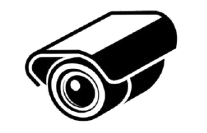
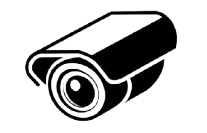
--

diff --git a/lib/screens/home_page.dart b/lib/screens/home_page.dart
@@ -228,6 +228,18 @@ class HomePage extends StatelessWidget {
                                         ),
                                       ),
 
+                                      // Camera Icon (Top-Right)
+                                      Positioned(
+                                        top: 16,
+                                        right: 16,
+                                        child: Image.asset(
+                                          'assets/camera.png',
+                                          width:
+                                              imageSize, // Use imageSize to control the size
+                                          height: imageSize,
+                                        ),
+                                      ),
+
                                       // Image (Left-aligned, cropped on right)
                                       Align(
                                         alignment: Alignment.bottomLeft,
@@ -256,9 +268,7 @@ class HomePage extends StatelessWidget {
                                 ),
                               ),
                             ),
-                            const SizedBox(
-                                width:
-                                    8), // Spacing between the right column and the bottom row
+                            // Right column
                           ],
                         ),
                       ],
